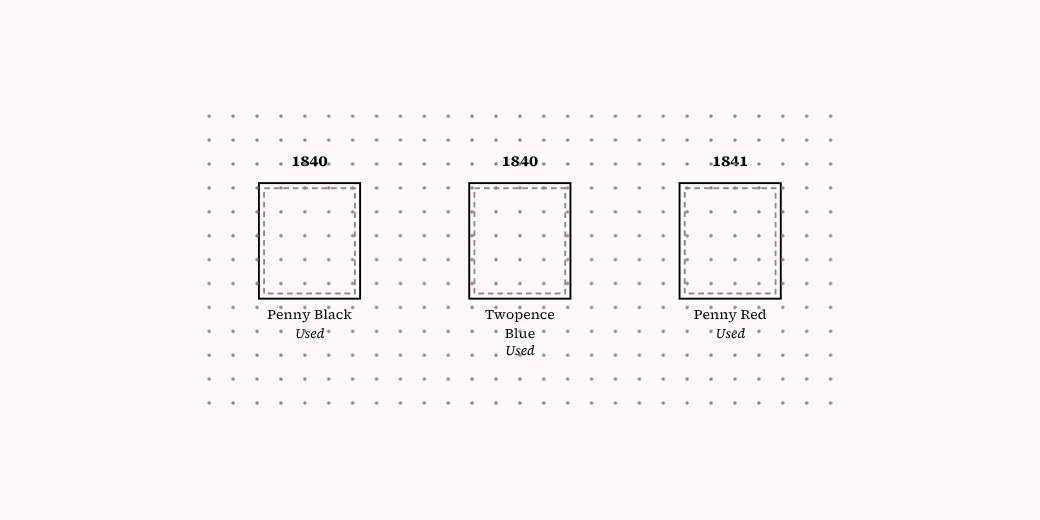
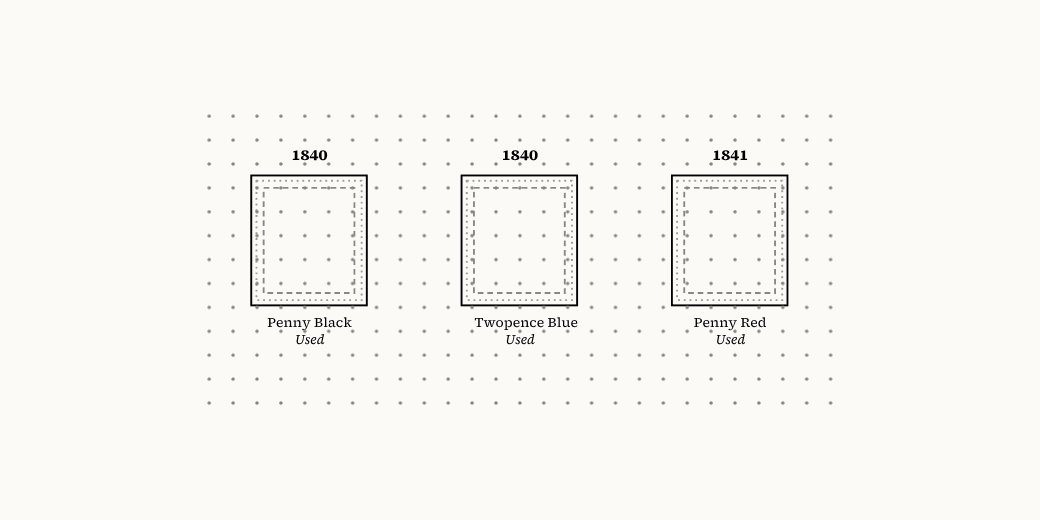
Tests and pictures for stamp mounts
Editor frame and caption tests say which mount they check (0 + 1 mm). The
wizard uses the shared paper list. The tutorial's sample now has 2.5 mm
frames, so "Twopence Blue" fits on one line. Pictures regenerated.

Claude-Session: https://claude.ai/code/session_01A3fbUrxq1yGaX221ZYm8VM

Changed region(s): [[0.2154, 0.2769, 0.3692, 0.6769], [0.6462, 0.2769, 0.7692, 0.6769], [0.4308, 0.2769, 0.5538, 0.6769]]

diff --git a/src/tests/test_page_sizes.py b/src/tests/test_page_sizes.py
@@ -38,7 +38,9 @@ def test_dsl_core_paper_table():
 
 
 def test_wizard_paper_table():
-    _check(_js_table("wizard.js"), scale=1)
+    # The wizard uses the shared table (with the FIP sheets) rather than a copy of its own
+    text = (WEB / "wizard.js").read_text(encoding="utf-8")
+    assert "S.CORE.PAPER_MM" in text and not _js_table("wizard.js")
 
 
 def test_css_page_sizes():

diff --git a/src/tests/test_editor_frames.py b/src/tests/test_editor_frames.py
@@ -47,6 +47,7 @@ def _show(page, els, border="none", select=None):
     page.evaluate(
         """([els, border, sel]) => {
         StampAlbum.newAlbum();
+        StampAlbum.CORE.setMount(0, 1);  // 1 mm frames, as these sizes assume
         StampAlbum.E.length = 0;
         els.forEach(e => StampAlbum.E.push(e));
         StampAlbum._pageBorder = border;

diff --git a/src/tests/test_editor_captions.py b/src/tests/test_editor_captions.py
@@ -42,6 +42,7 @@ def _show(page, els, border="none"):
     page.evaluate(
         """([els, border]) => {
         StampAlbum.newAlbum();
+        StampAlbum.CORE.setMount(0, 1);  // 1 mm frames, as these sizes assume
         StampAlbum.E.length = 0;
         els.forEach(e => StampAlbum.E.push(e));
         StampAlbum._pageBorder = border;

diff --git a/src/tests/test_tutorial.py b/src/tests/test_tutorial.py
@@ -80,6 +80,6 @@ def test_sample_captions_give_year_name_and_condition_only(page):
     )
     assert caps == [
         "1840 | Penny Black | Used",
-        "1840 | Twopence\nBlue | Used",
+        "1840 | Twopence Blue | Used",  # fits on one line inside the sample's 2.5 mm frames
         "1841 | Penny Red | Used",
     ], caps
